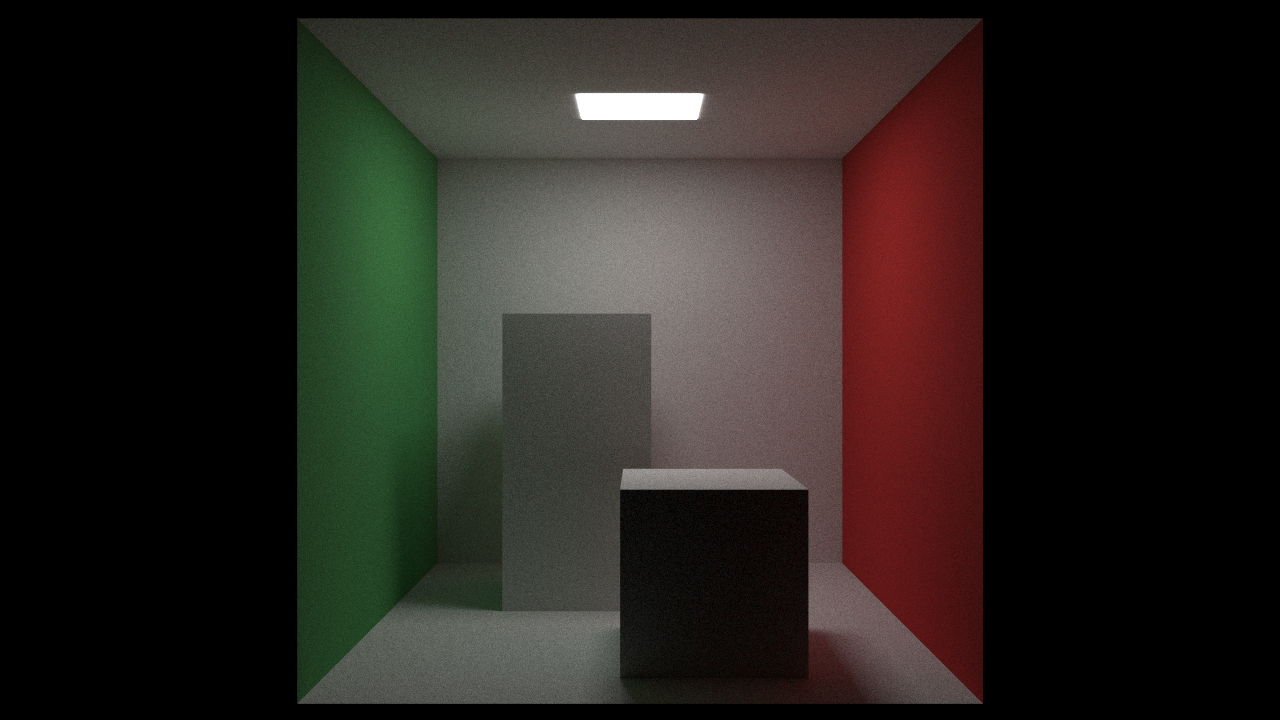
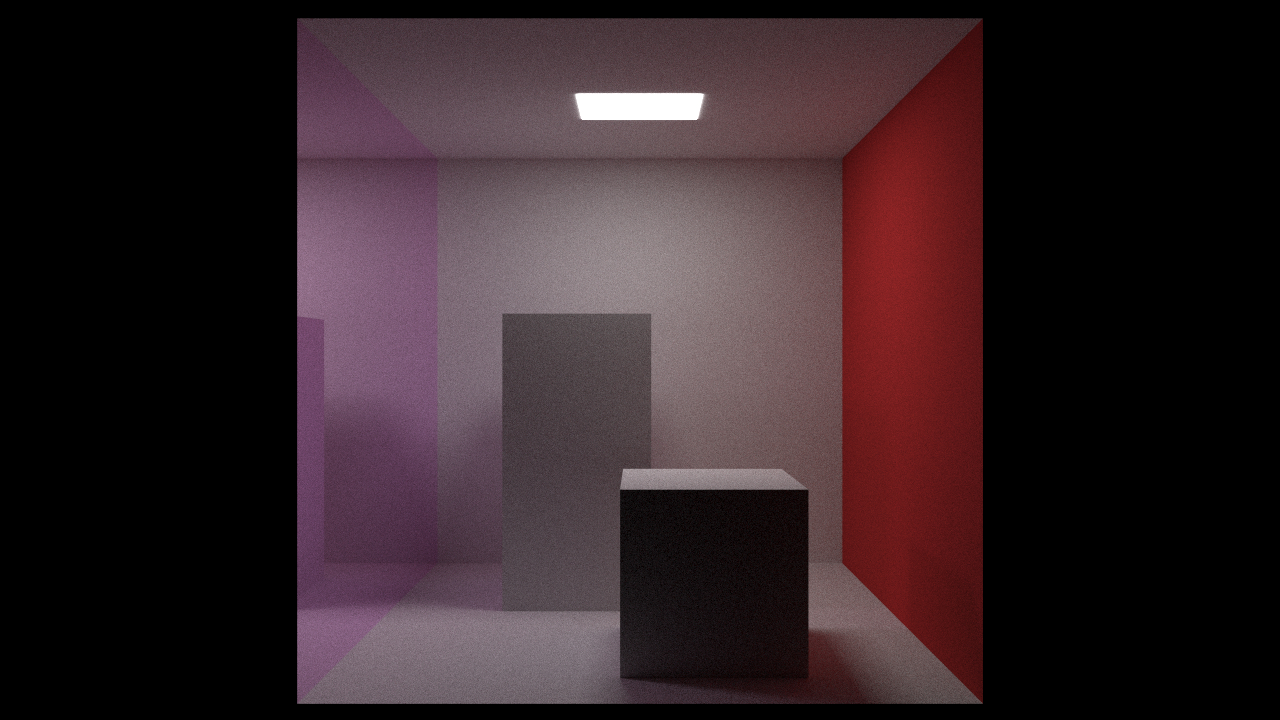
added box.h

Changed region(s): [[0.2188, 0.0306, 0.5938, 0.9778]]

diff --git a/box.h b/box.h
@@ -1,0 +1,34 @@
+#pragma once
+class box : public hittable 
+{
+    public:
+		__device__
+        box() {}
+		__device__
+		box(const point3& p0, const point3& p1, material *ptr) 
+		{
+			box_min = p0;
+			box_max = p1;
+			sides = new hittable_list(20);
+
+			(*sides).add(new xy_rect(p0.x(), p1.x(), p0.y(), p1.y(), p1.z(), ptr));
+			(*sides).add(new xy_rect(p0.x(), p1.x(), p0.y(), p1.y(), p0.z(), ptr));
+
+			(*sides).add(new xz_rect(p0.x(), p1.x(), p0.z(), p1.z(), p1.y(), ptr));
+			(*sides).add(new xz_rect(p0.x(), p1.x(), p0.z(), p1.z(), p0.y(), ptr));
+
+			(*sides).add(new yz_rect(p0.y(), p1.y(), p0.z(), p1.z(), p1.x(), ptr));
+			(*sides).add(new yz_rect(p0.y(), p1.y(), p0.z(), p1.z(), p0.x(), ptr));
+		}
+		__device__
+		bool hit(const ray& r, double t_min, double t_max, hit_record& rec) const override
+		{
+			return (*sides).hit(r, t_min, t_max, rec);
+		}
+
+
+    public:
+        point3 box_min;
+        point3 box_max;
+		hittable_list *sides;
+};
